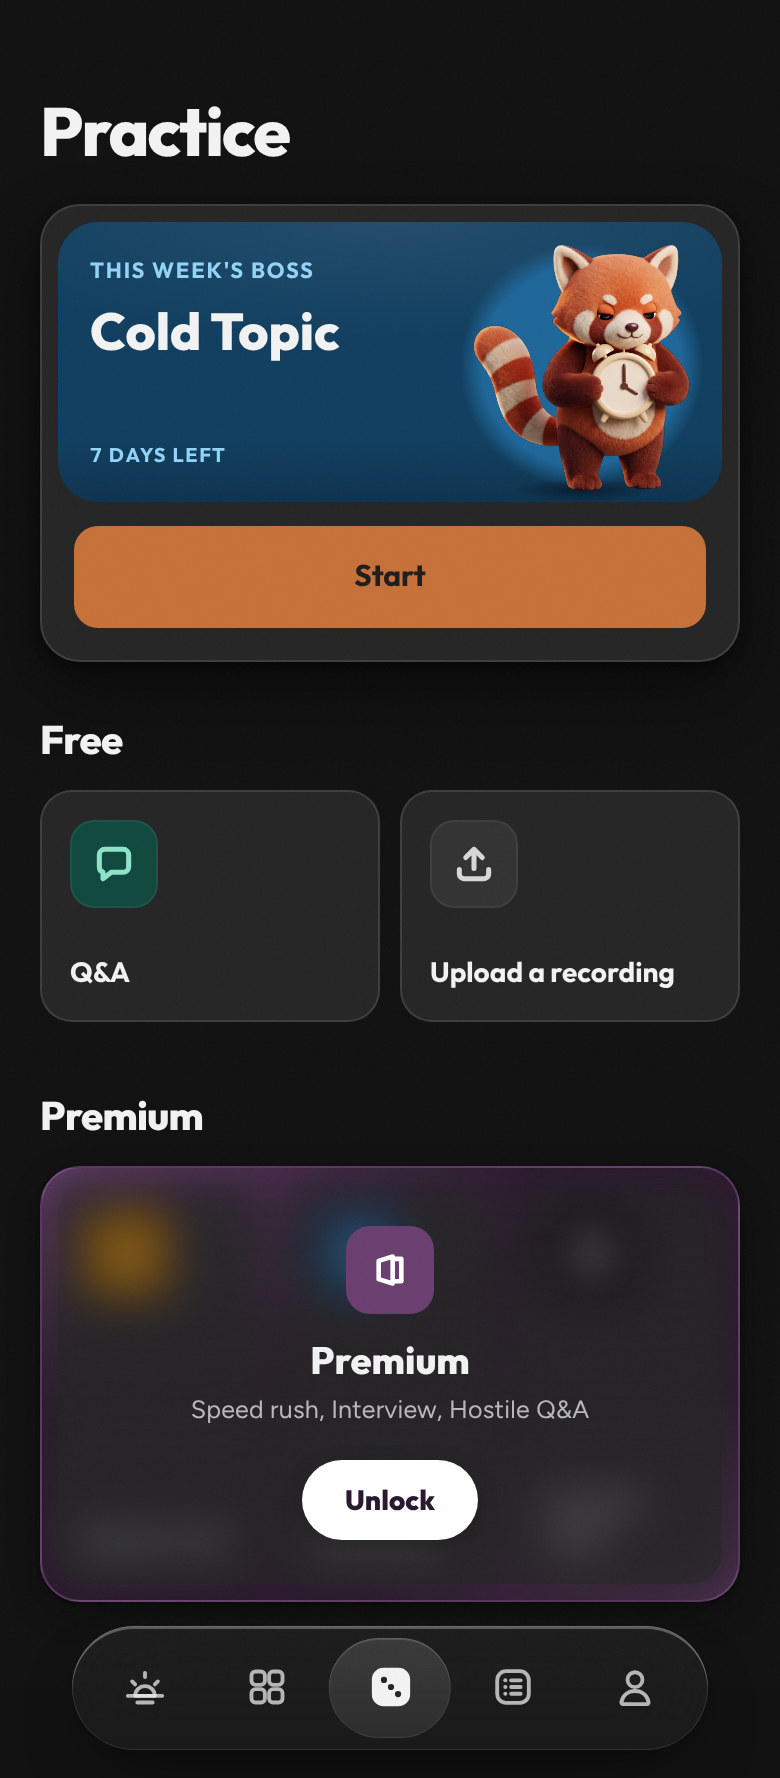
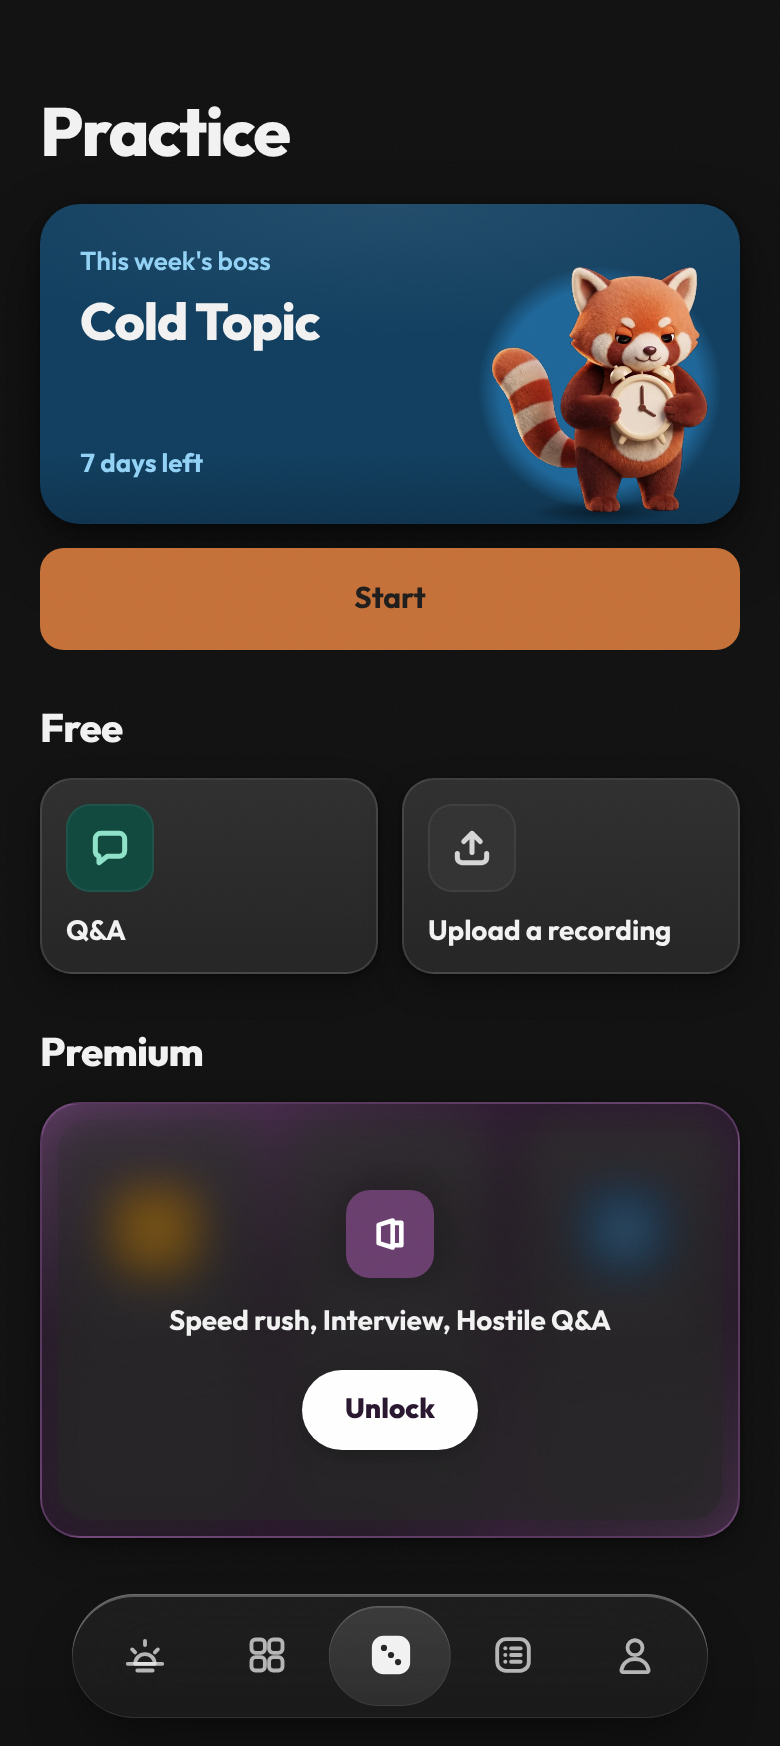
B5: Practice reads its week after mount, the stage is the boss card, one tile for every game
practice-tab-2: daysLeft moves into the mount effect (a #418 source: the
server's UTC week and the phone's local week disagreed). practice-tab-14:
premium and bossDone are null until read, the Premium slot holds a 218px
skeleton, a thrown profile read shows ErrorLine with retry. M13 and
practice-tab-10: the sky stage is the elev-2 card at 160px, Start on the
ground under it. practice-tab-11/-25/-26/-9/-7/-13/-27: 96px .card tiles,
sentence-case eyebrow and state, Cold Topic an h2, the wall's names as its
title, placeholder bars and the seat under the mark, rounded-sheet press,
rhythm on mt-7 and gap-3. Tab metadata says Practice.

Claude-Session: https://claude.ai/code/session_01KQpi1wPL2sdqgKKvt94vrP

diff --git a/app/games/page.tsx b/app/games/page.tsx
@@ -14,6 +14,8 @@ import {
 } from "@/components/Icon";
 import { DemosArt } from "@/components/DemosArt";
 import { Paywall } from "@/components/Paywall";
+import { ErrorLine } from "@/components/ui/ErrorState";
+import { Skeleton } from "@/components/ui/Skeleton";
 import { fetchProfile, fetchReps } from "@/lib/client-data";
 import { draw, GAMES, needsPremium, type Game } from "@/lib/games";
 import { weekStart } from "@/lib/level";
@@ -23,42 +25,28 @@ import { ACTION_CLASS } from "@/lib/ui";
 /**
  * Practice, the tab that was Tools (DECISIONS #157, #184, #292, #294).
  *
- * The page is a headliner and a list of doors. The 16 Sep review
- * (#292) found the list unreadable to a cold user, and each of its
- * points is answered in the markup below rather than argued with:
+ * The weekly boss, then the games as tiles: Free above, Premium behind
+ * a frosted plum wall (#317, Timothy: "games are tiles", no blurbs, a
+ * white pill on the wall so the boss keeps the one tap).
  *
- *  - ONE affordance. Every row ends in the same arrow, so "this
- *    navigates" is said once and the same way. It used to be an XP
- *    pill on some rows, an arrow on others and nothing on Interview,
- *    which made the one free game look like the dead row.
- *  - PREMIUM SAYS WHERE THE TAP GOES. A premium row carries the plum
- *    chip at its right edge, beside the arrow, in place of the word
- *    beside the title that read as a badge. No padlock and no dimming
- *    (#200, #280: the mark is a door, and a dimmed row is a disabled
- *    row, which would be a lie because the tap works): the chip names
- *    the destination.
- *  - No multipliers on the rows. "×2 XP" was a multiple of an unknown
- *    base; the game's own screen still pays and says what it pays.
- *  - Real glyphs in the tiles, at one weight, from the icon set.
- *  - Copy a first-timer can read: no "90s", "answered cold", "same
- *    engine" or "more doors".
- *  - Sections that hold: Games, with Hostile Q&A where it belongs, and
- *    "Bring your own" for the one row that is an input, not a
- *    challenge.
- *  - The boss card is the one lifted card and carries the screen's one
- *    terracotta tap, in place of an outlined card whose outline meant
- *    "featured" here and "selected" elsewhere. It also has state: days
- *    left in the week, and whether it was taken this week.
+ *  - The boss's sky stage IS its card (M13): the screen's one lifted
+ *    thing, at the sheet radius, with Start on the ground under it. A
+ *    card round a stage was a card in a card, and the button and the
+ *    stage had different side insets (practice-tab-10).
+ *  - One tile for every game (practice-tab-11): the glyph on its
+ *    picture tone, the name under it, 96px. The Free grid, the Premium
+ *    grid and the still copies behind the wall are the same tile, and
+ *    a tile in a grid carries no chevron.
+ *  - Nothing moves on load and nothing is guessed (practice-tab-2,
+ *    -14): the week is read on the device after mount, the plan slot
+ *    holds a skeleton until the profile lands, and a failed read says
+ *    so instead of showing a paying user the wall.
  *
- * The tab was renamed Practice in #294, on Timothy's call.
- *
- * Colour (the tabs' colour pass, after "pop with colour"): the boss
- * card is a stage in the introduction's sky, with the full-body clock
- * pose standing in it, and every game has its own picture-tone tile so
- * the list reads as four things to play. Picture colour only: the tap
- * stays terracotta, the chip stays the only plum, and no tile is a
- * trait tone, because no game here trains one trait and a trait's
- * colour means that trait everywhere else in the app.
+ * Colour: the boss stage is the introduction's sky, with the full-body
+ * clock pose standing in it, and every game has its own picture-tone
+ * tile. Picture colour only: the tap stays terracotta, plum stays the
+ * tier's, and no tile is a trait tone, because no game here practises
+ * one trait and a trait's colour means that trait everywhere else.
  */
 const GLYPH: Record<string, ReactNode> = {
   qa: <IconBubble size={22} />,
@@ -69,9 +57,8 @@ const GLYPH: Record<string, ReactNode> = {
 /* Each game's tile tone (globals.css, `.tone-*` and "practice (/games)").
    Mint, sun and sky from the introduction; Hostile Q&A stands in the
    hot seat, a charcoal tile with a light shield (not gold: gold on black
-   reads as a Pro badge beside a plum chip), since the fourth pastel
-   (coral) is his coat and in terracotta's family. Nothing blue or violet
-   sits beside a plum chip: sky is on Interview, the free row. */
+   reads as a Pro badge beside a plum mark), since the fourth pastel
+   (coral) is his coat and in terracotta's family. */
 const TILE: Record<string, string> = {
   qa: "tone-mint",
   rush: "tone-sun",
@@ -84,35 +71,55 @@ const SEEN_KEY = "ethos.practice.bossSeen";
 
 export default function GamesPage() {
   const router = useRouter();
-  const [premium, setPremium] = useState(false);
+  /* Null while the profile is in flight: a paying user must never see
+     the wall flash and collapse into their grid (practice-tab-14). */
+  const [premium, setPremium] = useState<boolean | null>(null);
+  /* The profile read failed: the slot says so and offers the retry,
+     rather than showing a paying user the wall (#146). */
+  const [planFailed, setPlanFailed] = useState(false);
   const [paywall, setPaywall] = useState<string | null>(null);
   /* Whether this week's boss has a recording behind it yet. Read once,
-     from the same rows the log shows; a failed read leaves it unknown
-     and the card says "days left", which is true either way. */
-  const [bossDone, setBossDone] = useState(false);
+     from the same rows the log shows. Null while in flight (the label
+     holds its line); a failed read lands on false and the card says
+     "days left", which is true either way. */
+  const [bossDone, setBossDone] = useState<boolean | null>(null);
+  /* Days left in the week, from the DEVICE's own week. Read after
+     mount, never in render (practice-tab-2): the server's week is UTC
+     and the phone's is local, so on a Sunday morning in Melbourne the
+     two disagreed by a day and React threw #418. */
+  const [daysLeft, setDaysLeft] = useState<number | null>(null);
   /* Demos springs onto the stage on the first visit of the week and
      stands still after that: he appears at moments, never as furniture,
      and a tab you come back to is not a moment. Null until read, so he
      never pops in late on top of a still first frame. */
   const [arrive, setArrive] = useState<boolean | null>(null);
 
+  function readPlan() {
+    setPlanFailed(false);
+    setPremium(null);
+    fetchProfile()
+      .then((p) => setPremium(p?.premium ?? false))
+      .catch(() => setPlanFailed(true));
+  }
+
   useEffect(() => {
-    const week = weekStart().toISOString();
+    const week = weekStart();
     let first = true;
     try {
-      first = localStorage.getItem(SEEN_KEY) !== week;
-      localStorage.setItem(SEEN_KEY, week);
+      first = localStorage.getItem(SEEN_KEY) !== week.toISOString();
+      localStorage.setItem(SEEN_KEY, week.toISOString());
     } catch {
       /* No storage: treat every visit as the first. */
     }
     setArrive(first);
+    setDaysLeft(
+      Math.max(1, 7 - Math.floor((Date.now() - week.getTime()) / DAY_MS))
+    );
 
-    fetchProfile()
-      .then((p) => setPremium(p?.premium ?? false))
-      .catch(() => {});
+    readPlan();
     fetchReps()
       .then((rows) => {
-        const since = weekStart().getTime();
+        const since = week.getTime();
         setBossDone(
           rows.some(
             (r) =>
@@ -121,47 +128,65 @@ export default function GamesPage() {
           )
         );
       })
-      .catch(() => {});
+      .catch(() => setBossDone(false));
   }, []);
 
-  const daysLeft = Math.max(
-    1,
-    7 - Math.floor((Date.now() - weekStart().getTime()) / DAY_MS)
-  );
+  /* A non-breaking space while either read is out, so the line keeps
+     its height and nothing under it moves when the words land. */
+  const weekState =
+    bossDone === null || daysLeft === null
+      ? " "
+      : bossDone
+        ? "Done this week"
+        : daysLeft === 1
+          ? "Last day"
+          : `${daysLeft} days left`;
+  const startLabel = bossDone ? "Again" : "Start";
 
   const free = GAMES.filter((g) => !needsPremium(g));
   const paid = GAMES.filter(needsPremium);
+  /* Behind the wall: the charcoal seat in the middle, under the plum
+     mark, and the sky tile in a corner, so nothing blue peeks out
+     beside plum (practice-tab-7). */
+  const behind = [
+    ...paid.filter((g) => g.id === "rush"),
+    null,
+    ...paid.filter((g) => g.id !== "rush"),
+  ];
 
   function play(g: Game) {
-    if (needsPremium(g) && !premium) {
-      setPaywall(`${g.name} · premium mods`);
+    if (needsPremium(g) && premium !== true) {
+      setPaywall(g.name);
       return;
     }
     router.push(repHref({ game: g.id, q: draw(g).id }));
   }
 
   return (
-    <main className="px-5 pb-22 pt-7">
+    <main className="px-5 pb-[var(--nav-clear)] pt-7">
       <ScreenHeader title="Practice" />
 
-      {/* The weekly headliner: the one lifted card and the one tap. Its
-          top is a stage in sky, Demos standing in it with his clock (the
-          boss is timed), the name and the week's state on the left. The
-          state is a label, not a chip: nothing on the stage is a tap. */}
-      <section className="elev-2 mt-4 rounded-sheet border border-card-edge bg-raised p-2">
-        <div className="intro-stage tone-sky practice-stage h-[140px]">
-          <div className="relative z-[2] flex h-full max-w-[60%] flex-col p-4">
-            <div className="label-data practice-stage-ink">This week&apos;s boss</div>
-            <div className="font-display mt-2 text-[26px] font-extrabold leading-[1.1]">
+      {/* The weekly headliner. The sky stage is the card itself, the
+          screen's one lifted thing, with Demos standing in it holding
+          his clock (the boss is timed), the name and the week's state
+          on the left. Nothing on the stage is a tap; Start sits on the
+          ground under it, edge to edge with it. */}
+      <section aria-labelledby="boss-title" className="mt-4">
+        <div className="intro-stage tone-sky practice-stage elev-2 h-[160px] p-5">
+          <div className="relative z-[2] flex h-full max-w-[60%] flex-col">
+            <p className="eyebrow practice-stage-ink">This week&apos;s boss</p>
+            <h2
+              id="boss-title"
+              className="font-display mt-1.5 text-title font-extrabold"
+            >
               Cold Topic
-            </div>
-            <span className="practice-week label-micro mt-auto" data-done={bossDone || undefined}>
-              {bossDone
-                ? "Done this week"
-                : daysLeft === 1
-                  ? "Last day"
-                  : `${daysLeft} days left`}
-            </span>
+            </h2>
+            <p
+              className="practice-week font-display mt-auto text-link font-bold"
+              data-done={bossDone || undefined}
+            >
+              {weekState}
+            </p>
           </div>
           <div className="absolute bottom-[2px] right-1 z-[1] h-[132px] w-[132px]">
             {arrive !== null && (
@@ -175,23 +200,24 @@ export default function GamesPage() {
             )}
           </div>
         </div>
-        <div className="px-2 pb-2 pt-3">
-          <Link href="/boss" className={ACTION_CLASS}>
-            {bossDone ? "Again" : "Start"}
-          </Link>
-        </div>
+        <Link
+          href="/boss"
+          aria-label={`${startLabel}: Cold Topic`}
+          className={`${ACTION_CLASS} relative mt-3`}
+        >
+          {startLabel}
+        </Link>
       </section>
 
       {/*
        * Free first, then the wall (26 Sep, Timothy: "premium is blurry,
        * blocked behind a physical wall, not just a colour, and free
-       * chillin above them"). The rows lost their one-line blurbs: the
-       * name and the glyph say what the game is, and the game's own
-       * screen says the rules.
+       * chillin above them"). No blurbs: the name and the glyph say what
+       * the game is, and the game's own screen says the rules.
        */}
       <div className="stagger mt-7">
-        <h2 className="section-head pb-3">Free</h2>
-        <div className="grid grid-cols-2 gap-2.5">
+        <h2 className="section-head">Free</h2>
+        <div className="mt-3 grid grid-cols-2 gap-3">
           {free.map((g) => (
             <GameTile
               key={g.id}
@@ -209,9 +235,15 @@ export default function GamesPage() {
           />
         </div>
 
-        <h2 className="section-head mt-9 pb-3">Premium</h2>
-        {premium ? (
-          <div className="grid grid-cols-3 gap-2.5">
+        <h2 className="section-head mt-7">Premium</h2>
+        {planFailed ? (
+          <ErrorLine onRetry={readPlan} className="mt-3">
+            Your plan didn&apos;t load.
+          </ErrorLine>
+        ) : premium === null ? (
+          <Skeleton rounded="rounded-sheet" className="mt-3 h-[218px]" />
+        ) : premium ? (
+          <div className="mt-3 grid grid-cols-3 gap-3">
             {paid.map((g) => (
               <GameTile
                 key={g.id}
@@ -232,22 +264,22 @@ export default function GamesPage() {
           <button
             type="button"
             onClick={() => setPaywall("Premium games")}
-            className="press premium-wall block w-full text-left"
+            className="press premium-wall mt-3 block w-full rounded-sheet text-left"
           >
-            <span aria-hidden className="premium-wall-behind grid grid-cols-3 gap-2.5">
-              {paid.map((g) => (
-                <GameTile key={g.id} glyph={GLYPH[g.id]} tile={TILE[g.id]} name={g.name} still />
-              ))}
-              <GameTile glyph={<IconBoss size={22} />} tile="game-tile-seat" name="Hostile Q&A" still />
+            <span aria-hidden className="premium-wall-behind grid grid-cols-3 gap-3">
+              {behind.map((g) =>
+                g ? (
+                  <GameTile key={g.id} glyph={GLYPH[g.id]} tile={TILE[g.id]} name={g.name} still />
+                ) : (
+                  <GameTile key="hostile" glyph={<IconBoss size={22} />} tile="game-tile-seat" name="Hostile Q&A" still />
+                )
+              )}
             </span>
             <span className="premium-wall-glass">
               <span className="premium-wall-mark">
                 <IconPremium size={20} />
               </span>
-              <span className="font-display mt-3 block text-[19px] font-extrabold leading-tight">
-                Premium
-              </span>
-              <span className="mt-1 block text-caption text-stone-500">
+              <span className="font-display mt-3 block text-row text-ink">
                 Speed rush, Interview, Hostile Q&amp;A
               </span>
               <span className="premium-wall-cta font-display mt-4">Unlock</span>
@@ -262,8 +294,10 @@ export default function GamesPage() {
 }
 
 /**
- * One game, as a tile: its glyph in its tone and its name, nothing to
- * read. `still` draws it inert, for the copies behind the Premium wall.
+ * One game, as a tile: its glyph on its tone at the top, its name under
+ * it, nothing to read. `still` draws it inert for the copies behind the
+ * Premium wall, with a placeholder bar where the name would be, so no
+ * half-legible word smears through the glass.
  */
 function GameTile({
   glyph,
@@ -286,14 +320,20 @@ function GameTile({
       <span aria-hidden className={`game-tile ${tile}`}>
         {glyph}
       </span>
-      <span className="font-display mt-auto block pt-4 text-[14px] font-bold leading-tight">
-        {name}
-      </span>
+      {still ? (
+        <span className="mt-2.5 block h-2.5 w-14 rounded-[3px] bg-sand" />
+      ) : (
+        <span className="font-display block pt-2.5 text-row text-ink">{name}</span>
+      )}
     </>
   );
-  const cls =
-    "game-card flex min-h-[116px] flex-col rounded-card border border-card-edge bg-raised p-3.5 text-left";
-  if (still) return <span className={cls}>{inner}</span>;
+  const cls = "game-card card flex min-h-24 flex-col p-3 text-left";
+  /* Behind the glass each glyph sits centred in its column and level
+     with the wall's mark (the glass centres a 130px stack in 200px, so
+     the mark's top is 34px into a copy): the seat hides under the mark
+     exactly and the sun and sky blur either side of it, rather than a
+     grey haze peeking out at the mark's corner (practice-tab-7). */
+  if (still) return <span className={`${cls} items-center pt-[34px]`}>{inner}</span>;
   return href ? (
     <Link href={href} className={`press ${cls}`}>
       {inner}

diff --git a/app/games/layout.tsx b/app/games/layout.tsx
@@ -1,11 +1,14 @@
 import type { Metadata } from "next";
 
 /* Metadata for a client page: the segment layout is the App Router's
- * place to declare it. Renders nothing of its own. */
+ * place to declare it. Renders nothing of its own. The tab is Practice
+ * since #294; the route keeps its old name. */
+const description = "The weekly boss, Q&A, and your own recordings, every one measured.";
+
 export const metadata: Metadata = {
-  title: "Games · Ethos",
-  description: "Real practice under staged conditions. XP, never shortcuts.",
-  openGraph: { title: "Games · Ethos", description: "Real practice under staged conditions. XP, never shortcuts." },
+  title: "Practice · Ethos",
+  description,
+  openGraph: { title: "Practice · Ethos", description },
 };
 
 export default function Layout({ children }: { children: React.ReactNode }) {
